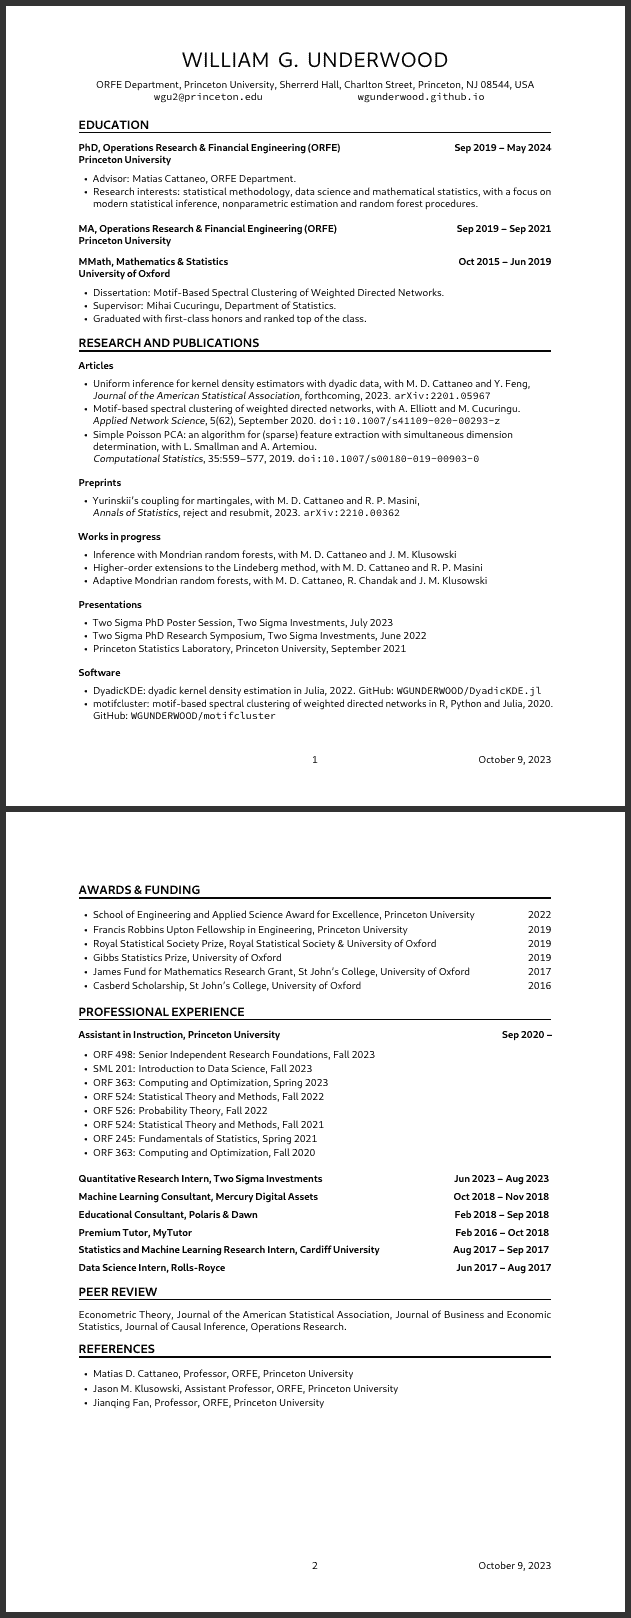
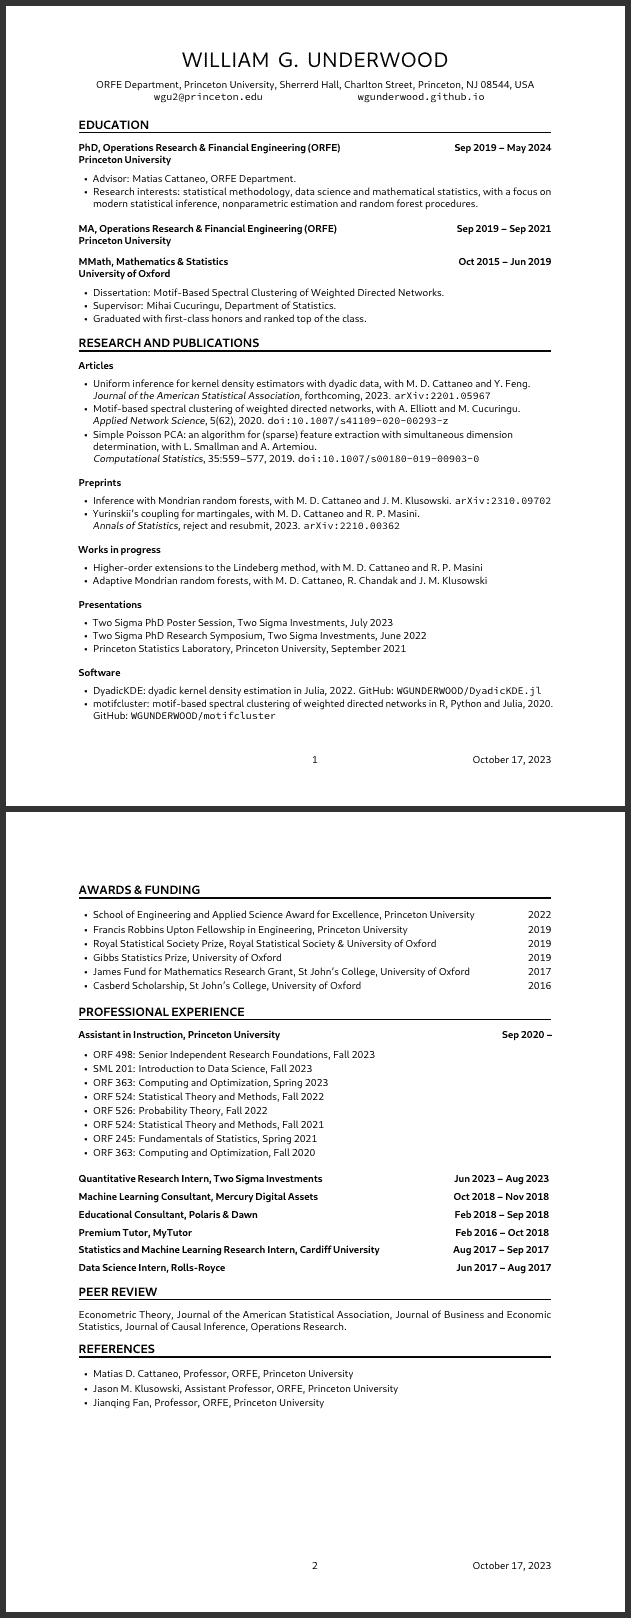
mondrian arxiv

Changed region(s): [[0.1204, 0.309, 0.6624, 0.3708], [0.5721, 0.2472, 0.6926, 0.2781], [0.3914, 0.2472, 0.4216, 0.2781]]

diff --git a/WGUnderwood.tex b/WGUnderwood.tex
@@ -87,14 +87,14 @@
 \begin{itemize}
 
   \item Uniform inference for kernel density estimators with dyadic data,
-    with M.\ D.\ Cattaneo and Y.\ Feng, \\
+    with M.\ D.\ Cattaneo and Y.\ Feng. \\
     \emph{Journal of the American Statistical Association}, forthcoming,
     2023.
     \href{https://arxiv.org/abs/2201.05967}{\texttt{arXiv{:}{\allowbreak}2201.05967}}%
 
   \item Motif-based spectral clustering of weighted directed networks,
     with A.\ Elliott and M.\ Cucuringu. \\
-    \emph{Applied Network Science}, 5(62), September 2020.
+    \emph{Applied Network Science}, 5(62), 2020.
     \href{https://doi.org/10.1007/s41109-020-00293-z}{\texttt{doi:10.1007/s41109-020-00293-z}}%
 
   \item Simple Poisson PCA: an algorithm for (sparse) feature extraction
@@ -108,8 +108,12 @@
 \cvsubsection{Preprints}{}{}
 \begin{itemize}
 
+  \item Inference with Mondrian random forests,
+    with M.\ D.\ Cattaneo and J.\ M.\ Klusowski.
+    \href{https://arxiv.org/abs/2310.09702}{\texttt{arXiv{:}{\allowbreak}2310.09702}}%
+
   \item Yurinskii's coupling for martingales,
-    with M.\ D.\ Cattaneo and R.\ P.\ Masini, \\
+    with M.\ D.\ Cattaneo and R.\ P.\ Masini. \\
     \emph{Annals of Statistics}, reject and resubmit, 2023.
     \href{https://arxiv.org/abs/2210.00362}{\texttt{arXiv{:}{\allowbreak}2210.00362}}%
 
@@ -117,9 +121,6 @@
 
 \cvsubsection{Works in progress}{}{}
 \begin{itemize}
-
-  \item Inference with Mondrian random forests,
-    with M.\ D.\ Cattaneo and J.\ M.\ Klusowski
 
   \item Higher-order extensions to the Lindeberg method,
     with M.\ D.\ Cattaneo and R.\ P.\ Masini
